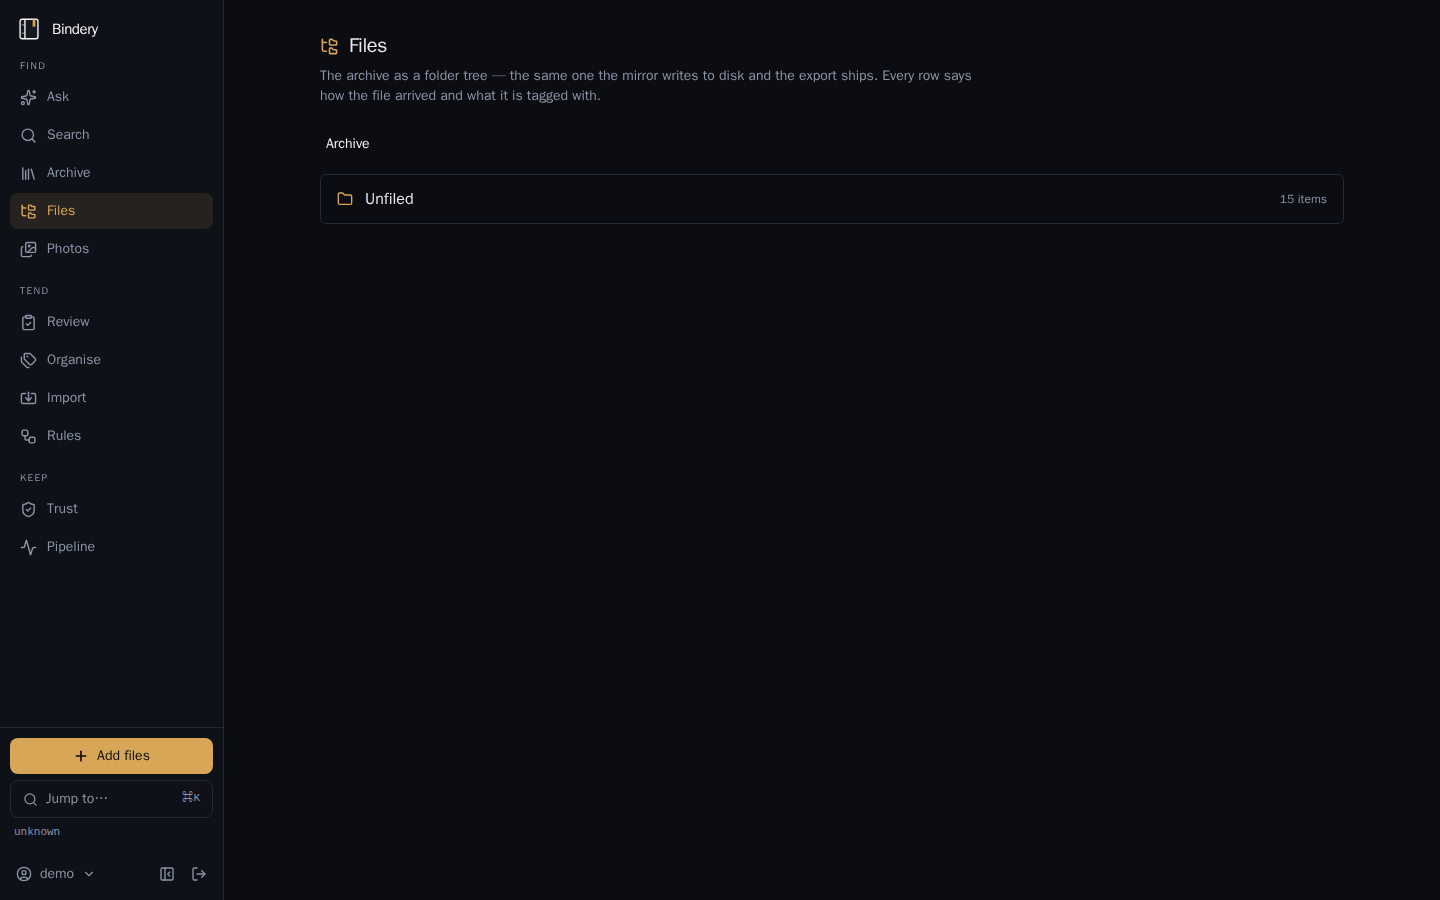
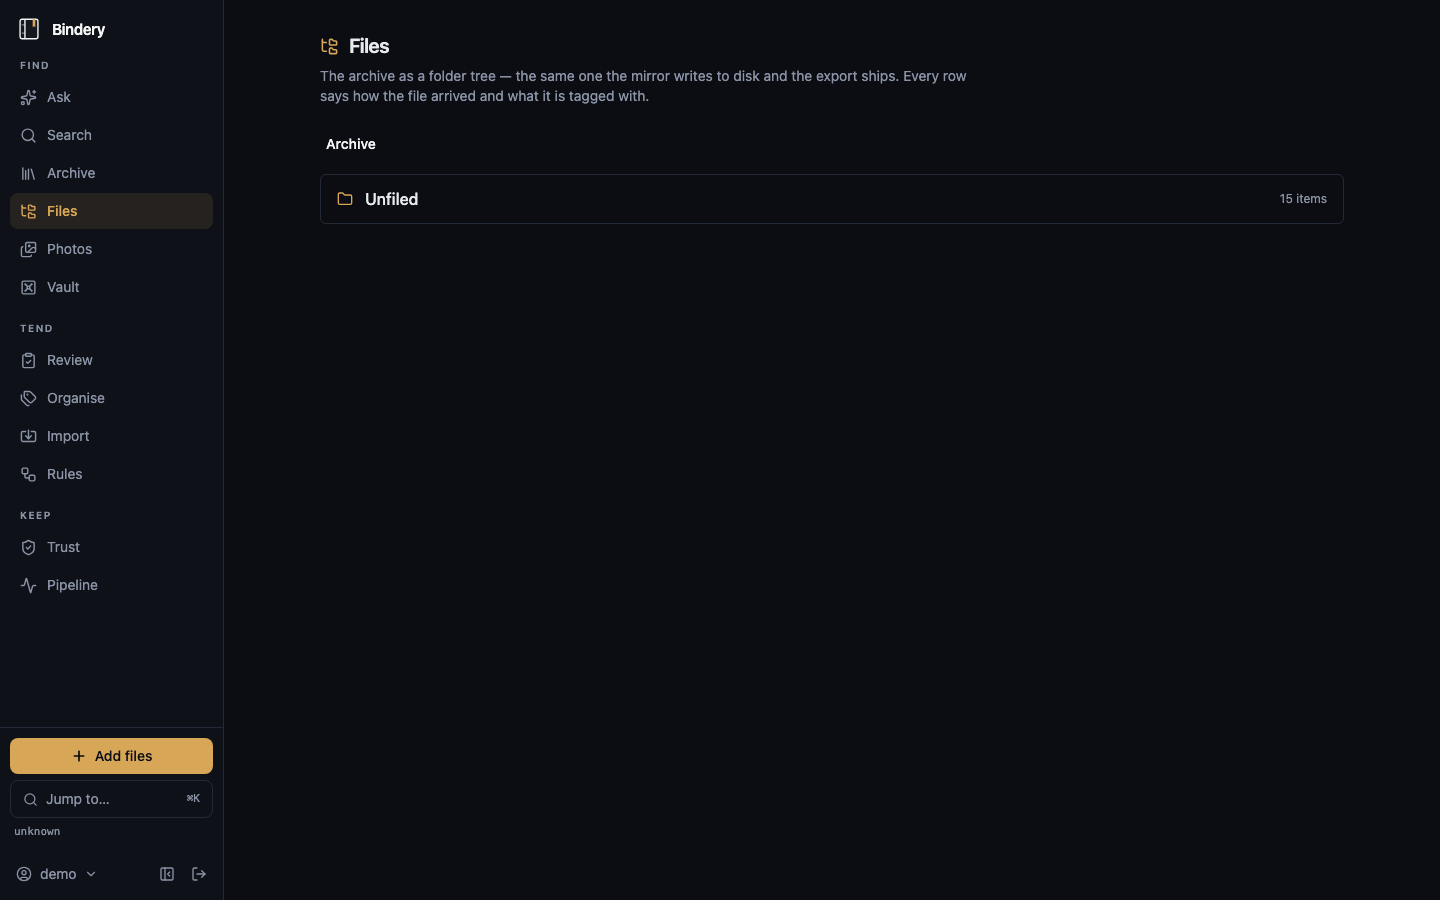
Cover the vault in the browser, and stop the capture lying about empty screens
Five e2e specs over the real API: the sidebar link, that a locked vault
renders as locked and offers no list, count or search box, that a wrong
PIN is refused, that the right one opens it and Lock now shuts it, and
that Search offers the vault without looking in it unasked. /vault added
to the shell spec's daily destinations, since it is one now.

The first run of these found the attempts-left count rendered twice — in
the error and again under the field. Said once now, under the field.

capture-screens.py refused nothing when the account it signed in as could
see no documents. I captured fifteen screenshots of an empty archive with
it and it reported success, which is the same failure its own sign-in
guard exists to prevent, one step further along. It now checks the account
can see something before taking any pictures.

All screenshots recaptured: adding a sidebar row changed every screen, so
every one of them was genuinely out of date.

diff --git a/web/e2e/vault.spec.ts b/web/e2e/vault.spec.ts
@@ -1,0 +1,109 @@
+import type { Page } from "@playwright/test";
+
+import { test, expect } from "./fixtures";
+
+/**
+ * The private vault (Phase 16).
+ *
+ * Driven through the real API rather than mocked, because the parts worth
+ * checking are the ones that cross the boundary: that a locked vault renders
+ * as locked, that a wrong PIN is refused and says how many attempts remain,
+ * and that the screen never shows what is inside before it is opened.
+ *
+ * The seeded account may or may not already have a vault depending on what ran
+ * before, so each test establishes the state it needs instead of assuming a
+ * fresh one.
+ */
+
+const PASSPHRASE = "an end to end vault passphrase";
+const PIN = "481516";
+
+/** Whatever the account's vault is now, leave it existing and locked. */
+async function lockedVault(page: Page) {
+  const state = await page.evaluate(async () => {
+    const r = await fetch("/api/vault", { credentials: "same-origin" });
+    return r.json();
+  });
+  if (!state.exists) {
+    await page.evaluate(
+      async ([passphrase, pin]: [string, string]) => {
+        await fetch("/api/vault/setup", {
+          method: "POST",
+          credentials: "same-origin",
+          headers: { "Content-Type": "application/json" },
+          body: JSON.stringify({ passphrase, pin }),
+        });
+      },
+      [PASSPHRASE, PIN] as [string, string],
+    );
+  }
+  await page.evaluate(async () => {
+    await fetch("/api/vault/lock", { method: "POST", credentials: "same-origin" });
+  });
+}
+
+test("the vault is reachable from the sidebar", async ({ signedIn: page }) => {
+  await page
+    .getByRole("navigation", { name: "Sections" })
+    .locator('a[href="/vault"]')
+    .click();
+  await expect(page.getByRole("heading", { name: "Vault" })).toBeVisible();
+});
+
+test("a locked vault says nothing about what is in it", async ({ signedIn: page }) => {
+  await lockedVault(page);
+  await page.goto("/vault");
+
+  await expect(page.getByText("The vault is locked.")).toBeVisible();
+  // No list, no count, no titles. A locked vault that reports how much it
+  // holds has already said something about the contents.
+  await expect(page.getByRole("button", { name: "Take out" })).toHaveCount(0);
+  await expect(page.getByPlaceholder("Search inside the vault…")).toHaveCount(0);
+});
+
+test("a wrong PIN is refused and the attempts left are shown", async ({
+  signedIn: page,
+}) => {
+  await lockedVault(page);
+  await page.goto("/vault");
+
+  await page.getByLabel("Vault PIN").fill("000000");
+  await page.getByRole("button", { name: "Unlock" }).click();
+
+  await expect(page.getByText("That PIN is wrong.")).toBeVisible();
+  // How many tries remain is said once, under the field.
+  await expect(page.getByText(/attempts? left\./)).toBeVisible();
+  // Still shut.
+  await expect(page.getByText("The vault is locked.")).toBeVisible();
+});
+
+test("the right PIN opens it, and Lock now shuts it again", async ({
+  signedIn: page,
+}) => {
+  await lockedVault(page);
+  await page.goto("/vault");
+
+  await page.getByLabel("Vault PIN").fill(PIN);
+  await page.getByRole("button", { name: "Unlock" }).click();
+
+  await expect(page.getByText(/Open\. It locks itself/)).toBeVisible();
+  await expect(page.getByPlaceholder("Search inside the vault…")).toBeVisible();
+
+  await page.getByRole("button", { name: "Lock now" }).click();
+  await expect(page.getByText("The vault is locked.")).toBeVisible();
+});
+
+test("search offers the vault but does not look in it unasked", async ({
+  signedIn: page,
+}) => {
+  await lockedVault(page);
+  await page.goto("/search?q=statement");
+
+  const panel = page.getByRole("button", { name: /Also search the vault/ });
+  await expect(panel).toBeVisible();
+  // Nothing from the vault until it is asked for and unlocked.
+  await expect(page.getByText("The vault is locked.")).toHaveCount(0);
+
+  await panel.click();
+  await expect(page.getByText(/The vault is locked/)).toBeVisible();
+});

diff --git a/web/src/features/vault/UnlockForm.tsx b/web/src/features/vault/UnlockForm.tsx
@@ -47,7 +47,11 @@ export default function UnlockForm({
         caught instanceof ApiError && caught.status === 401
           ? usePassphrase
             ? "That passphrase does not open this vault."
-            : `That PIN is wrong. ${remaining - 1 > 0 ? `${remaining - 1} attempt${remaining - 1 === 1 ? "" : "s"} left before the PIN is switched off — the passphrase will still work.` : "The PIN has now been switched off. Use the passphrase."}`
+            : remaining - 1 > 0
+              // The count lives under the input, in one place. Repeating it
+              // here made the same sentence appear twice on one screen.
+              ? "That PIN is wrong."
+              : "That was the last attempt, so the PIN is now switched off. The passphrase still opens the vault and nothing in it is lost."
           : caught instanceof Error
             ? caught.message
             : String(caught),

diff --git a/web/e2e/shell.spec.ts b/web/e2e/shell.spec.ts
@@ -14,7 +14,7 @@ test("the sidebar shows the daily destinations and hides setup", async ({ signed
   // exact-name match passes or fails on whether the archive happens to be
   // healthy, which is not what this test is about.
   for (const href of ["/", "/search", "/archive", "/files", "/photos",
-                      "/review", "/organise", "/import", "/rules",
+                      "/vault", "/review", "/organise", "/import", "/rules",
                       "/trust", "/pipeline"]) {
     await expect(nav.locator(`a[href="${href}"]`), `${href} is missing`).toBeVisible();
   }

diff --git a/scripts/capture-screens.py b/scripts/capture-screens.py
@@ -193,6 +193,28 @@ async def main() -> int:
             await browser.close()
             return 1
 
+        # Signed in is not the same as able to see anything. Capturing with an
+        # account that has no documents writes fifteen pictures of empty states
+        # and reports success — the same failure the sign-in guard above exists
+        # to prevent, one step further along. It happened.
+        visible = await page.evaluate(
+            """async () => {
+                const r = await fetch('/api/archive?limit=1', {credentials: 'same-origin'});
+                if (!r.ok) return -1;
+                const body = await r.json();
+                return body.total ?? (body.documents ? body.documents.length : 0);
+            }"""
+        )
+        if visible == 0:
+            print(
+                f"{EMAIL} can see no documents, so every screenshot would show an "
+                "empty archive. Capture with the seeded demonstration account "
+                "(scripts/seed-demo.py) instead.\nNothing was captured.",
+                file=sys.stderr,
+            )
+            await browser.close()
+            return 1
+
         # The vault screen shows a setup form until a vault exists, and a guide
         # about searching and restoring illustrated by an empty create-account
         # form is a guide that documents the wrong screen. So one is made here,
